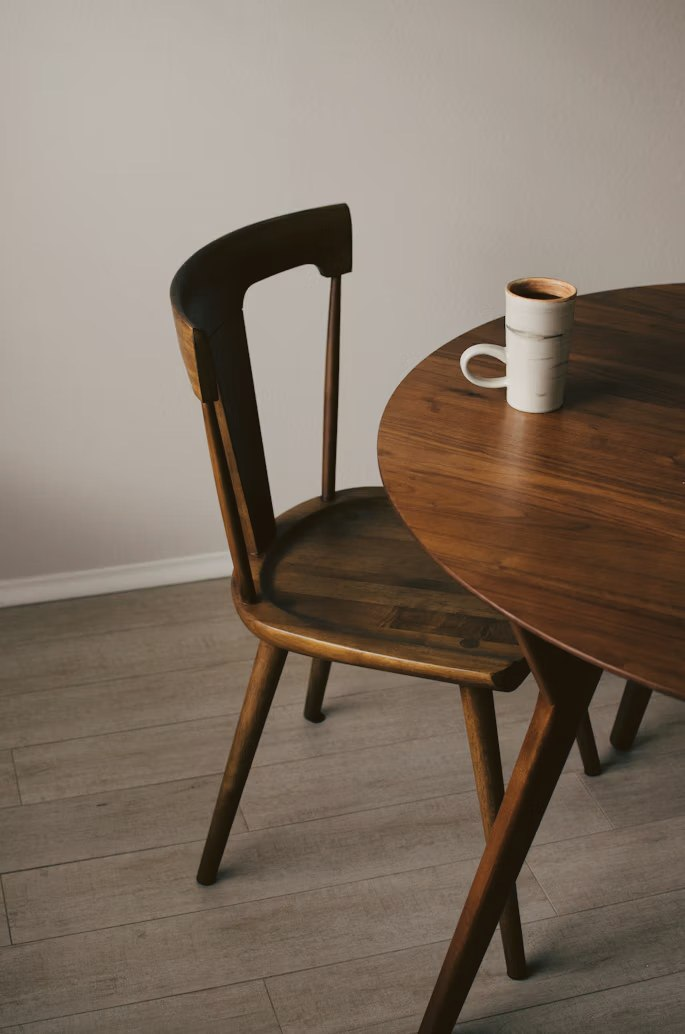
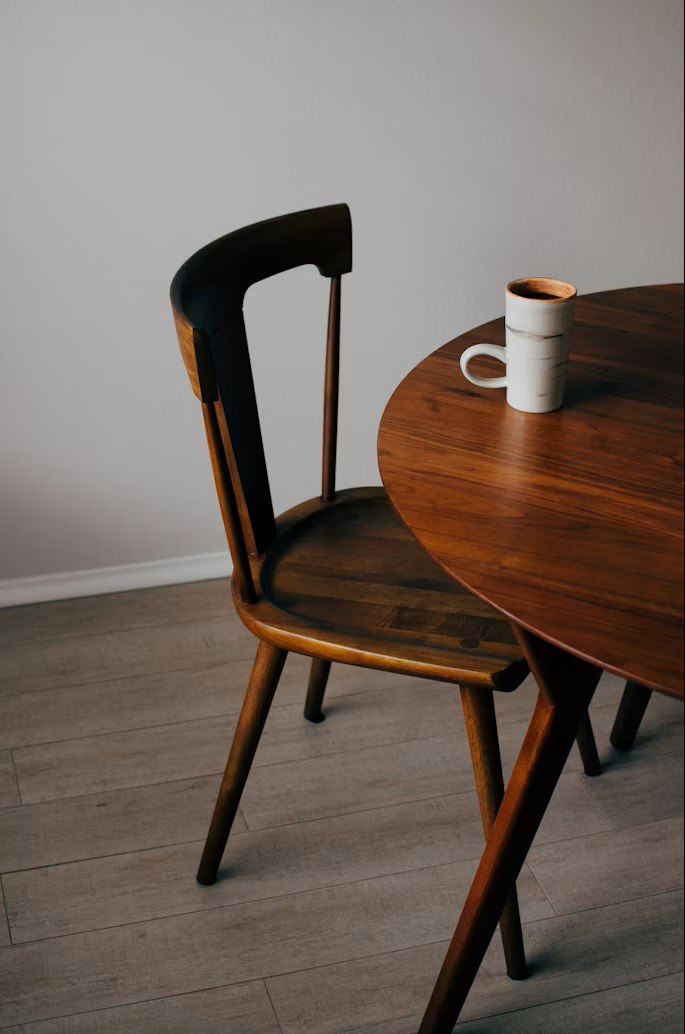
누락 사진 9장 채움 + 사진 5장 원본 화질로 교체, 바뀐 사진 alt 수정

diff --git a/index-wonder.html b/index-wonder.html
@@ -112,7 +112,7 @@
       <a class="w-dept card" href="collection.html"><div class="media"><img src="assets/img/chair.jpg" alt="초록 패브릭 시트의 원목 체어" style="object-position: center 70%"></div>체어</a>
       <a class="w-dept card" href="collection.html"><div class="media"><img src="assets/img/sofa.jpg" alt="햇살이 드는 벽 앞의 가죽 소파"></div>소파</a>
       <a class="w-dept card" href="collection.html"><div class="media"><img src="assets/img/sideboard.jpg" alt="흰 공간의 원목 사이드보드"></div>사이드보드</a>
-      <a class="w-dept card" href="collection.html"><div class="media"><img src="assets/img/coffee-table.jpg" alt="두꺼운 원목 상판의 낮은 센터 테이블"></div>센터 테이블</a>
+      <a class="w-dept card" href="collection.html"><div class="media"><img src="assets/img/coffee-table.jpg" alt="원목 프레임 라운지 체어와 원형 사이드 테이블"></div>센터 테이블</a>
       <a class="w-dept card" href="collection.html"><div class="media"><img src="assets/img/stools.jpg" alt="햇빛 아래 원목 상판 스툴"></div>스툴 · 벤치</a>
     </div>
   </section>
@@ -129,7 +129,7 @@
       </div>
     </div>
     <div class="w-band w-band--flip">
-      <div class="w-band__media"><img data-parallax="16" src="assets/img/coffee-table.jpg" alt="두꺼운 원목 상판의 낮은 센터 테이블"></div>
+      <div class="w-band__media"><img data-parallax="16" src="assets/img/coffee-table.jpg" alt="원목 프레임 라운지 체어와 원형 사이드 테이블"></div>
       <div class="w-band__copy">
         <div class="eyebrow">GYEOL 02 · MARU</div>
         <h2 class="h2">마루의 시선</h2>
@@ -138,7 +138,7 @@
       </div>
     </div>
     <div class="w-band">
-      <div class="w-band__media"><img data-parallax="16" src="assets/img/table-grain.jpg" alt="원목 센터 테이블의 모서리와 나뭇결"></div>
+      <div class="w-band__media"><img data-parallax="16" src="assets/img/table-grain.jpg" alt="원목 원형 테이블 상판의 나뭇결"></div>
       <div class="w-band__copy bg-surface">
         <div class="eyebrow">CRAFT · 결구</div>
         <h2 class="h2">맞물려야 오래갑니다</h2>
@@ -166,7 +166,7 @@
       <a class="w-product card" href="showroom.html" data-tags="dining"><div class="media"><img src="assets/img/armchairs.jpg" alt="나란히 놓인 원목 암체어 두 점"><img class="alt" src="assets/img/chair.jpg" alt=""></div><div class="line">GYEOL 01 · SOBAN</div><div class="title-row"><div class="h4">소반 암체어</div><div class="meta">[가격]</div></div><div class="meta">오크 · 가죽 시트</div></a>
       <a class="w-product card" href="showroom.html" data-tags="living"><div class="media"><span class="w-badge">신제품</span><img src="assets/img/sofa.jpg" alt="햇살이 드는 벽 앞의 가죽 소파"><img class="alt" src="assets/img/coffee-table.jpg" alt=""></div><div class="line">GYEOL 02 · MARU</div><div class="title-row"><div class="h4">마루 모듈 소파 3인</div><div class="meta">₩9,500,000부터</div></div><div class="meta">오크 프레임 · 리넨 패브릭</div></a>
       <a class="w-product card" href="showroom.html" data-tags="living first"><div class="media"><img src="assets/img/console-top.jpg" alt="원목 콘솔 위의 화병과 둥근 거울"><img class="alt" src="assets/img/console.jpg" alt=""></div><div class="line">GYEOL 02 · MARU</div><div class="title-row"><div class="h4">마루 라운지 체어</div><div class="meta">₩3,800,000부터</div></div><div class="meta">오크 · 베지터블 가죽</div></a>
-      <a class="w-product card" href="showroom.html" data-tags="living"><div class="media"><img src="assets/img/coffee-table.jpg" alt="두꺼운 원목 상판의 낮은 센터 테이블"><img class="alt" src="assets/img/table-grain.jpg" alt=""></div><div class="line">GYEOL 02 · MARU</div><div class="title-row"><div class="h4">마루 센터 테이블</div><div class="meta">[가격]</div></div><div class="meta">체리 · 낮은 좌식 높이</div></a>
+      <a class="w-product card" href="showroom.html" data-tags="living"><div class="media"><img src="assets/img/coffee-table.jpg" alt="원목 프레임 라운지 체어와 원형 사이드 테이블"><img class="alt" src="assets/img/table-grain.jpg" alt=""></div><div class="line">GYEOL 02 · MARU</div><div class="title-row"><div class="h4">마루 센터 테이블</div><div class="meta">[가격]</div></div><div class="meta">체리 · 낮은 좌식 높이</div></a>
       <a class="w-product card" href="showroom.html" data-tags="living first"><div class="media"><img src="assets/img/console.jpg" alt="곡선 원목 콘솔과 도자 화병"><img class="alt" src="assets/img/stools.jpg" alt=""></div><div class="line">GYEOL 02 · MARU</div><div class="title-row"><div class="h4">마루 사이드 테이블</div><div class="meta">[가격]</div></div><div class="meta">오크 · 원형</div></a>
     </div>
   </section>
@@ -194,7 +194,7 @@
     <div class="w-scroller">
       <a class="card" href="#stories"><div class="media"><img src="assets/img/sofa.jpg" alt="햇살이 드는 벽 앞의 가죽 소파"></div><div class="meta" style="font-size: 13px">[지역] · 34평 아파트 · 부부</div><div style="font-size: 19px; font-weight: 500">이사 대신 거실 하나를 다시 짠 집</div></a>
       <a class="card" href="#stories"><div class="media"><img src="assets/img/console-top.jpg" alt="원목 콘솔 위의 화병과 둥근 거울"></div><div class="meta" style="font-size: 13px">[지역] · 오피스텔 · 1인</div><div style="font-size: 19px; font-weight: 500">작은 집의 첫 번째 좋은 의자</div></a>
-      <a class="card" href="#stories"><div class="media"><img src="assets/img/bentwood.jpg" alt="곡목 체어의 등받이와 좌판 디테일"></div><div class="meta" style="font-size: 13px">[지역] · 단독주택 · 가족</div><div style="font-size: 19px; font-weight: 500">아이에게 물려줄 식탁</div></a>
+      <a class="card" href="#stories"><div class="media"><img src="assets/img/bentwood.jpg" alt="곡선 팔걸이의 원목 체어와 낮은 원형 테이블"></div><div class="meta" style="font-size: 13px">[지역] · 단독주택 · 가족</div><div style="font-size: 19px; font-weight: 500">아이에게 물려줄 식탁</div></a>
       <a class="card" href="#stories"><div class="media"><img src="assets/img/sideboard-room.jpg" alt="빈 벽 앞의 원목 사이드보드"></div><div class="meta" style="font-size: 13px">[지역] · 20평 아파트 · 1인</div><div style="font-size: 19px; font-weight: 500">[이야기 제목]</div></a>
       <a class="card" href="#stories"><div class="media"><img src="assets/img/armchairs.jpg" alt="나란히 놓인 원목 암체어 두 점"></div><div class="meta" style="font-size: 13px">[지역] · 주택 · 부부</div><div style="font-size: 19px; font-weight: 500">[이야기 제목]</div></a>
     </div>
